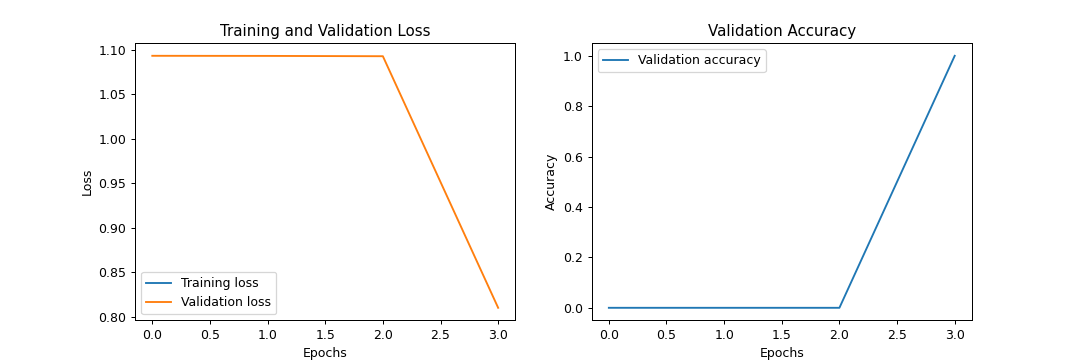
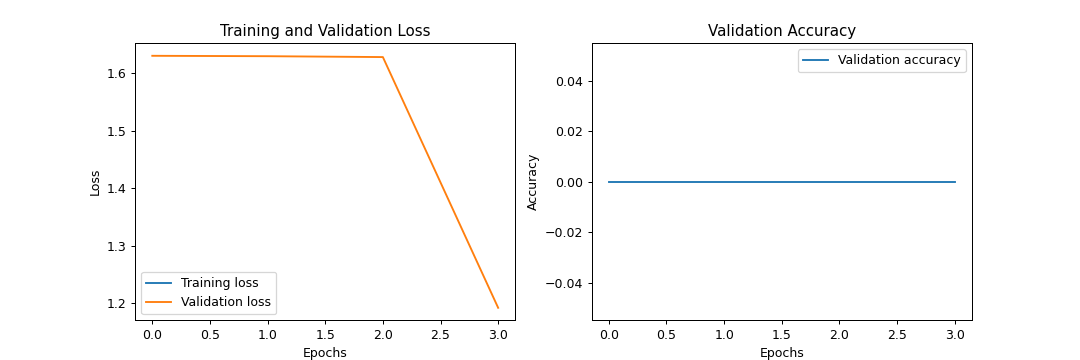
save model update

diff --git a/main.py b/main.py
@@ -10,8 +10,7 @@ import matplotlib.pyplot as plt
 from dataset_wrapper import read_dataset
 
 
-# Check if CUDA is available and set the device accordingly
-device = torch.device("cuda" if torch.cuda.is_available() else "cpu")
+device = torch.device("cuda:0" if torch.cuda.device_count() > 0 else "cpu")
 print("Using device:", device)
 
 # Custom dataset class for BERT
@@ -49,8 +48,8 @@ class SentimentDataset(Dataset):
 class FineTuningConfig:
     def __init__(self):
         # Path to Dataset
-        self.dataset_path = 'dataset/text.txt' 
-        self.labels_num = 3 # Number of labels in the dataset
+        self.dataset_path = 'dataset/finefoods.txt' 
+        self.labels_num = 30 # Number of labels in the dataset
 
         # Model Training Parameters
         self.num_epochs = 3 # Number of training epochs
@@ -111,7 +110,9 @@ training_args = TrainingArguments(
     warmup_steps=config.warmup_steps,
     weight_decay=config.weight_decay,
     logging_dir=config.logging_dir,
-    evaluation_strategy="epoch"
+    evaluation_strategy="epoch",
+    save_strategy="epoch",  # Save the model at the end of each epoch
+    save_total_limit=1       # Keep only the most recent checkpoint
 )
 
 # Trainer
